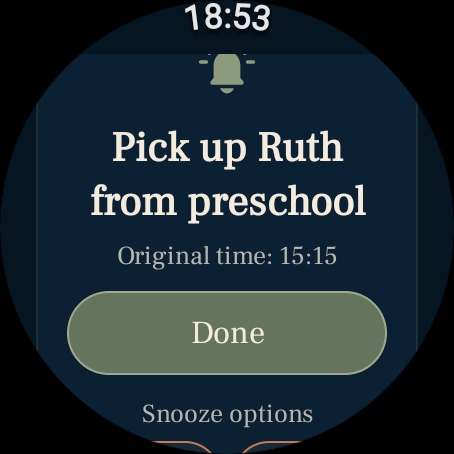
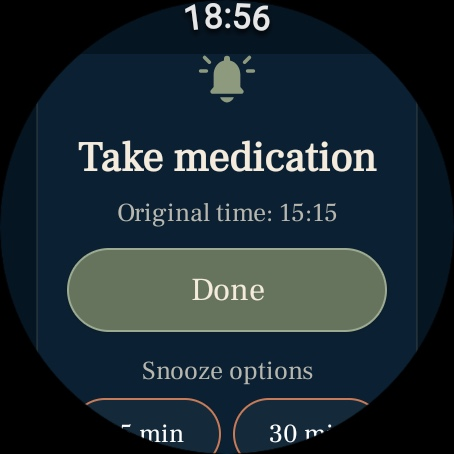
Replace alert screenshots with concise reminders

diff --git a/PROJECT_STATUS.md b/PROJECT_STATUS.md
@@ -48,7 +48,7 @@ WatchReminder/
 - המרווחים האנכיים בכרטיס ההתראה צומצמו בעדינות, ובפרט המרווח בין הפעמון לשם התזכורת, כדי ליצור מסך קומפקטי ורציף יותר בלי להקטין את שטחי הלחיצה של הפעולות.
 - כפתור „בוצע” במסך ההתראה הודגש כפעולה הראשית באמצעות פינות מעוגלות במלואן, טקסט שנהב ופס ירוק־מרווה בהיר ועדין מסביב.
 - רוחב כפתור „בוצע” הותאם לאזור הבטוח של מסך השעון העגול: 160dp על 42dp, כך שהמסגרת והפינות נשארות גלויות במלואן.
-- צילומי החנות של מסך ההתראה בעברית ובאנגלית עודכנו לאחר שינוי הפעמון, המרווחים וכפתור הפעולה הראשי; שני הקבצים נשמרו כ־JPEG בגודל 454x454 תחת `store-assets/screenshots/wear/{he,en}/07_alert_dark.jpg`.
+- צילומי החנות של מסך ההתראה בעברית ובאנגלית עודכנו לאחר שינוי הפעמון, המרווחים וכפתור הפעולה הראשי. נבחרו כותרות קצרות בשורה אחת — „לקחת תרופה” ו־`Take medication` — ושני הקבצים אומתו ונשמרו כ־JPEG בגודל 454x454 תחת `store-assets/screenshots/wear/{he,en}/07_alert_dark.jpg`.
 - נוצרה גרפיקת Feature Graphic ייעודית ל־Google Play במידות המדויקות `1024x500`, בסגנון החזותי של האפליקציה וללא מידע אישי או טקסט מלאכותי. הקובץ נשמר תחת `store-assets/feature-graphic/watch-reminder-feature-graphic.png`.
 - כרטיס הלוגים הוסר ממסך ההגדרות, כולל כפתורי השליחה והניקוי. מנגנון הלוגים עצמו נשאר פעיל בקוד לצורכי אבחון ואינו מוצג למשתמש בממשק הרגיל.
 - הושלם סבב לוקליזציה ממוקד לאנגלית: בוררי הסטת זמני ההלכה מציגים `On time`/`min`, הערות היסטוריה כגון „סומן מראש” מתורגמות, שורת התזכורת הבאה בספירת העומר מתורגמת במלואה, ומסך זמני שקט מתרגם גם את שם הכלל, גבולות זמני ההלכה, „היום/מחר/אתמול” ושורות הזמן בפועל.
